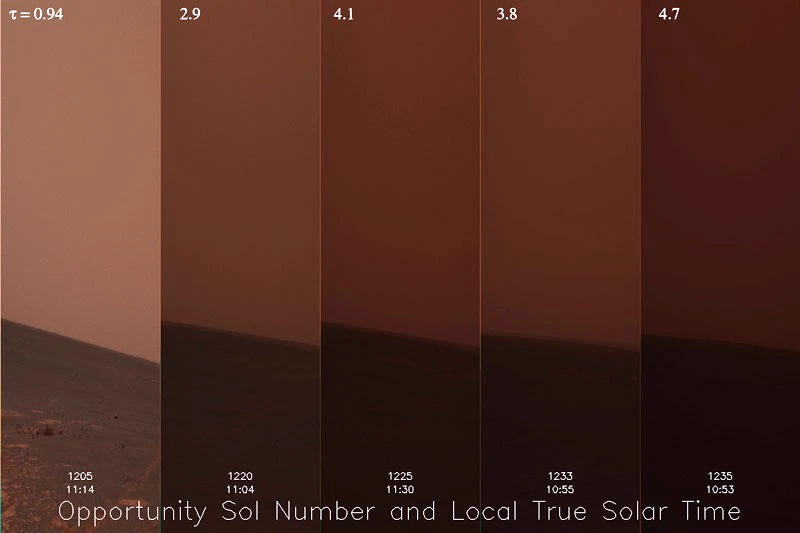
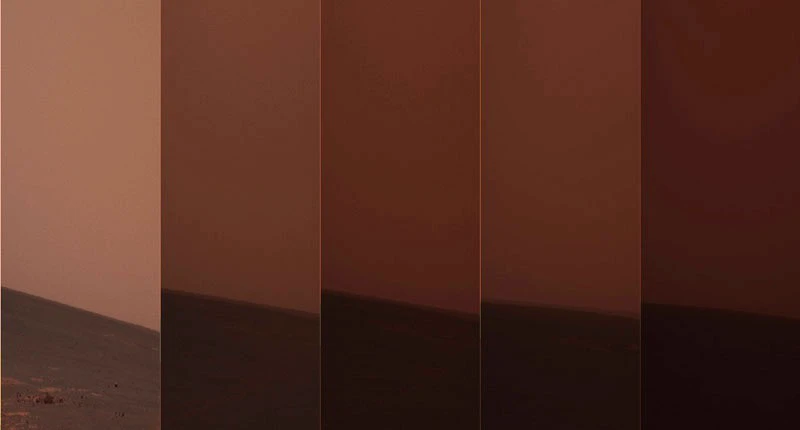
Every photo fills the screen; scenes dissolve instead of cutting
- Berries, the 2007 sky and the dusty/clean self-portraits are full-screen
  backgrounds now (selfies re-exported at 2400 px, sky labels cropped).
- Wider cross-fades between steps, and both scenes keep moving while they cross.
- The backdrop stops exactly where the story ends and sinks into the page's dark
  ground first, so no hard edge scrolls up over the next section.
- Last picture: the edge of the black band is softened.

diff --git a/src/components/story/Backdrop.tsx b/src/components/story/Backdrop.tsx
@@ -12,17 +12,20 @@ export interface Shot {
 
 /** Scenes with the same key share one layer, so a photo used by two steps keeps travelling. */
 export const sceneKey = (s: Scene): string =>
-  s.kind === 'photo' || s.kind === 'framed' ? s.image.id : s.kind === 'compare' ? `${s.before.id}|${s.after.id}` : s.kind
+  s.kind === 'photo' ? s.image.id : s.kind === 'compare' ? `${s.before.id}|${s.after.id}` : s.kind
 
 /** Every picture a list of shots shows, once each (for the credits). */
 export function sceneImages(scenes: Scene[]): SceneImage[] {
   const out = new Map<string, SceneImage>()
   for (const s of scenes) {
-    const imgs = s.kind === 'photo' || s.kind === 'framed' ? [s.image] : s.kind === 'compare' ? [s.before, s.after] : s.kind === 'rover' ? [s.ground] : []
+    const imgs = s.kind === 'photo' ? [s.image] : s.kind === 'compare' ? [s.before, s.after] : s.kind === 'rover' ? [s.ground] : []
     for (const i of imgs) if (!out.has(i.name + i.credit)) out.set(i.name + i.credit, i)
   }
   return [...out.values()]
 }
+
+/** How much of the scroll between two steps the cross-fade takes (0–1). Wide, so scenes dissolve rather than cut. */
+const FADE = 0.6
 
 const clamp01 = (v: number) => Math.min(1, Math.max(0, v))
 const lerp = (a: number, b: number, t: number) => a + (b - a) * t
@@ -82,7 +85,6 @@ export function makeBackdropController(
       img.dataset.bw = String(w * base)
       img.dataset.bh = String(h * base)
     })
-    el.querySelectorAll<HTMLElement>('[data-frame]').forEach((f) => (f.dataset.fw = String(f.clientWidth)))
     memo.clear()
   }
 
@@ -98,47 +100,40 @@ export function makeBackdropController(
   }
 
   /** How far through its own stretch of the story a shot is, 0–1. */
-  const progress = (s: number, f: number) => {
+  // A shot keeps moving all through the cross-fades on either side of it, so nothing ever sits frozen
+  // on screen. Two steps on one photo (`shared`) hand over at the midpoint instead, so the pan is continuous.
+  const progress = (s: number, f: number, shared: boolean) => {
     if (opts.reduced) return 1
     if (s === 0) return clamp01(f / 0.5)
-    if (s === n - 1) return clamp01((f - (s - 0.5)) / 1.5)
-    return clamp01(f - (s - 0.5))
+    const lead = shared ? 0.5 : 0.5 + FADE / 2
+    if (s === n - 1) return clamp01((f - (s - lead)) / (lead + 1))
+    return clamp01((f - (s - lead)) / (2 * lead))
   }
 
-  const draw = (s: number, f: number, id: string) => {
+  const draw = (s: number, f: number, id: string, shared = false) => {
     const layer = layers.get(keys[s])
     const scene = shots[s].scene
     if (!layer) return
-    const u = progress(s, f)
-    if (scene.kind === 'photo') {
-      const img = layer.querySelector<HTMLImageElement>('img[data-cover]')
-      if (!img) return
-      const v = lerpView(scene.from, scene.to, u)
+    const u = progress(s, f, shared)
+    if (scene.kind === 'photo' || scene.kind === 'compare') {
+      // Every photo in the layer travels together (the two halves of a wipe stay lined up).
+      const [from, to] = scene.narrow && isNarrow() ? scene.narrow : [scene.from, scene.to]
+      const v = lerpView(from, to, u)
       const z = v.zoom ?? 1
-      const W = Number(img.dataset.bw) * z
-      const H = Number(img.dataset.bh) * z
-      set(img, 'transform', `translate3d(${(-(W - vw) * v.x).toFixed(1)}px, ${(-(H - vh) * v.y).toFixed(1)}px, 0) scale(${z.toFixed(4)})`, id + 'img')
-    } else if (scene.kind === 'framed') {
-      const frame = layer.querySelector<HTMLElement>('[data-frame]')
-      const img = layer.querySelector<HTMLElement>('img')
-      if (!frame || !img) return
-      const r = scene.reveal === 'none' ? 1 : smooth(u / 0.45)
-      const clip = scene.reveal === 'left' ? `inset(0 ${((1 - r) * 100).toFixed(2)}% 0 0)` : `inset(0 0 ${((1 - r) * 100).toFixed(2)}% 0)`
-      set(frame, 'clipPath', clip, id + 'frame')
-      if (scene.from && scene.to) {
-        const v = lerpView(scene.from, scene.to, u)
-        set(img, 'transformOrigin', `${(v.x * 100).toFixed(1)}% ${(v.y * 100).toFixed(1)}%`, id + 'io')
-        set(img, 'transform', `scale(${(v.zoom ?? 1).toFixed(4)})`, id + 'it')
+      layer.querySelectorAll<HTMLImageElement>('img[data-cover]').forEach((img, i) => {
+        const W = Number(img.dataset.bw) * z
+        const H = Number(img.dataset.bh) * z
+        set(img, 'transform', `translate3d(${(-(W - vw) * v.x).toFixed(1)}px, ${(-(H - vh) * v.y).toFixed(1)}px, 0) scale(${z.toFixed(4)})`, `${id}img${i}`)
+      })
+      if (scene.kind === 'compare') {
+        const after = layer.querySelector<HTMLElement>('[data-after]')
+        const line = layer.querySelector<HTMLElement>('[data-wipe]')
+        if (!after || !line) return
+        const w = opts.reduced ? 1 : smooth((u - 0.15) / 0.6)
+        set(after, 'clipPath', `inset(0 ${((1 - w) * 100).toFixed(2)}% 0 0)`, id + 'after')
+        set(line, 'transform', `translate3d(${(w * vw).toFixed(1)}px, 0, 0)`, id + 'line')
+        set(line, 'opacity', w > 0.01 && w < 0.99 ? '1' : '0', id + 'lineop')
       }
-    } else if (scene.kind === 'compare') {
-      const after = layer.querySelector<HTMLElement>('[data-after]')
-      const line = layer.querySelector<HTMLElement>('[data-wipe]')
-      const frame = layer.querySelector<HTMLElement>('[data-frame]')
-      if (!after || !line || !frame) return
-      const w = opts.reduced ? 1 : smooth((u - 0.2) / 0.55)
-      set(after, 'clipPath', `inset(0 ${((1 - w) * 100).toFixed(2)}% 0 0)`, id + 'after')
-      set(line, 'transform', `translate3d(${(w * Number(frame.dataset.fw)).toFixed(1)}px, 0, 0)`, id + 'line')
-      set(line, 'opacity', w > 0.01 && w < 0.99 ? '1' : '0', id + 'lineop')
     } else if (scene.kind === 'rover') {
       layer.querySelectorAll<HTMLElement>('[data-ground]').forEach((g) =>
         set(g, 'opacity', g.dataset.ground === scene.ground.id ? '1' : '0', `${id}g${g.dataset.ground}`),
@@ -180,11 +175,11 @@ export function makeBackdropController(
     if (d >= 0) {
       a = cur
       b = Math.min(n - 1, cur + 1)
-      t = b === a ? 0 : d > 0.35 ? smooth((d - 0.35) / 0.3) : 0
+      t = b === a ? 0 : smooth((d - (0.5 - FADE / 2)) / FADE)
     } else {
       a = Math.max(0, cur - 1)
       b = cur
-      t = a === b ? 1 : d < -0.35 ? 1 - smooth((-0.35 - d) / 0.3) : 1
+      t = a === b ? 1 : 1 - smooth((-(0.5 - FADE / 2) - d) / FADE)
     }
     if (opts.reduced) t = t < 0.5 ? 0 : 1
 
@@ -198,7 +193,7 @@ export function makeBackdropController(
         set(layer, 'display', '', id)
         set(layer, 'opacity', '1', id)
         set(layer, 'zIndex', '1', id)
-        draw(t < 0.5 ? a : b, f, id)
+        draw(t < 0.5 ? a : b, f, id, true)
       } else if (key === kb && t > 0) {
         set(layer, 'display', '', id)
         set(layer, 'opacity', t.toFixed(3), id)
@@ -250,19 +245,6 @@ function CoverPhoto({ image }: { image: SceneImage }) {
   )
 }
 
-/** A small photo shown sharp: above the words on phones, to the right of them on wide screens. */
-function Frame({ image, children }: { image: SceneImage; children: React.ReactNode }) {
-  return (
-    <div
-      data-frame=""
-      className="absolute left-1/2 top-[11svh] w-[min(calc(100vw-2.5rem),calc(33svh*var(--ar)))] -translate-x-1/2 overflow-hidden rounded-md lg:left-auto lg:right-[6vw] lg:top-1/2 lg:w-[min(44vw,calc(64svh*var(--ar)))] lg:translate-x-0 lg:-translate-y-1/2"
-      style={{ aspectRatio: `${image.wide.w} / ${image.wide.h}`, '--ar': image.wide.w / image.wide.h } as React.CSSProperties}
-    >
-      {children}
-    </div>
-  )
-}
-
 function Layer({ scene, shots, model, modelRef, title, loaded }: {
   scene: Scene
   shots: Shot[]
@@ -279,22 +261,15 @@ function Layer({ scene, shots, model, modelRef, title, loaded }: {
         <CoverPhoto image={scene.image} />
       </div>
     )
-  if (scene.kind === 'framed')
-    return (
-      <div data-layer={key} className={`${base} bg-basalt`} style={{ display: 'none' }}>
-        <Frame image={scene.image}>
-          <img {...lazy(scene.image.wide.src)} alt="" decoding="async" className="block h-full w-full object-cover" />
-        </Frame>
-      </div>
-    )
   if (scene.kind === 'compare')
     return (
-      <div data-layer={key} className={`${base} bg-basalt`} style={{ display: 'none' }}>
-        <Frame image={scene.before}>
-          <img {...lazy(scene.before.wide.src)} alt="" decoding="async" className="absolute inset-0 h-full w-full object-cover" />
-          <img {...lazy(scene.after.wide.src)} data-after="" alt="" decoding="async" className="absolute inset-0 h-full w-full object-cover" />
-          <span data-wipe="" aria-hidden="true" className="absolute inset-y-0 left-0 w-0.5 -translate-x-1/2 bg-sun opacity-0 shadow-[0_0_12px_rgb(0_0_0/0.5)]" />
-        </Frame>
+      <div data-layer={key} className={base} style={{ display: 'none' }}>
+        <CoverPhoto image={scene.before} />
+        {/* The clip is on a full-screen box, so the wipe crosses the screen, not the moving photo */}
+        <div data-after="" className="absolute inset-0 overflow-hidden" style={{ clipPath: 'inset(0 100% 0 0)' }}>
+          <CoverPhoto image={scene.after} />
+        </div>
+        <span data-wipe="" aria-hidden="true" className="absolute inset-y-0 left-0 w-0.5 -translate-x-1/2 bg-sun opacity-0 shadow-[0_0_12px_rgb(0_0_0/0.5)]" />
       </div>
     )
   if (scene.kind === 'black') return <div data-layer={key} className={`${base} bg-black`} style={{ display: 'none' }} />

diff --git a/src/components/StoryScene.tsx b/src/components/StoryScene.tsx
@@ -133,6 +133,17 @@ export default function StoryScene({ chapter }: { chapter: Chapter }) {
         .fromTo(chrome.querySelectorAll('[data-day],[data-topshade]'), { autoAlpha: 0 }, { autoAlpha: 1, duration: 0.25 }, 0.45)
         .fromTo(chrome.querySelectorAll('[data-scrim]'), { opacity: 0 }, { opacity: 1, duration: 0.5 }, 0.3)
 
+      gsap.to(chrome.querySelector('[data-endshade]'), {
+        opacity: 1,
+        ease: 'none',
+        scrollTrigger: { trigger: root, start: 'bottom 125%', end: 'bottom 100%', scrub: true },
+      })
+      gsap.to(chrome.querySelector('[data-counter]'), {
+        opacity: 0,
+        ease: 'none',
+        scrollTrigger: { trigger: root, start: 'bottom 120%', end: 'bottom 100%', scrub: true },
+      })
+
       if (!reduced) {
         blocks.forEach((block) => {
           const heading = block.querySelector<HTMLElement>('[data-heading]')
@@ -221,7 +232,9 @@ export default function StoryScene({ chapter }: { chapter: Chapter }) {
   return (
     <section ref={rootRef} aria-label={`The story of ${chapter.name}`} className="relative">
       {/* The screen behind the words. Sticky, full screen, never above the words. */}
-      <div className="pointer-events-none sticky top-0 z-0 h-0">
+      {/* Full height with a matching negative margin: it lets go exactly where the story ends, instead of
+          hanging over the next section. */}
+      <div className="pointer-events-none sticky top-0 z-0 -mb-[100svh] h-[100svh]">
         <div ref={chromeRef} data-silent="false" className="group/chrome absolute inset-x-0 top-0 h-[100svh]">
           <Backdrop
             shots={shots}
@@ -251,8 +264,10 @@ export default function StoryScene({ chapter }: { chapter: Chapter }) {
             aria-hidden="true"
             className="invisible absolute inset-x-0 top-0 h-28 bg-gradient-to-b from-black/55 to-transparent opacity-0"
           />
+          {/* The end: the picture sinks into the page's own dark, so the next section follows without an edge */}
+          <div data-endshade="" aria-hidden="true" className="absolute inset-0 bg-basalt opacity-0" />
 
-          <div className="absolute left-5 top-5 font-display text-[clamp(0.95rem,4.8vw,1.125rem)] font-bold leading-tight md:left-10 md:text-lg lg:top-8 lg:text-2xl">
+          <div data-counter="" className="absolute left-5 top-5 font-display text-[clamp(0.95rem,4.8vw,1.125rem)] font-bold leading-tight md:left-10 md:text-lg lg:top-8 lg:text-2xl">
             <p data-intro-only="" className="text-ink">
               {chapter.place}
             </p>
@@ -331,7 +346,8 @@ export default function StoryScene({ chapter }: { chapter: Chapter }) {
             </div>
           </article>
         ))}
-        <div aria-hidden="true" className="h-[40svh] lg:h-[20svh]" />
+        {/* Room after the last words, so the rover is seen alone before the picture sinks into the dark */}
+        <div aria-hidden="true" className="h-[70svh] lg:h-[60svh]" />
       </div>
     </section>
   )
@@ -340,7 +356,7 @@ export default function StoryScene({ chapter }: { chapter: Chapter }) {
 /** Screen readers hear what the picture behind the words shows. */
 function SceneDescription({ scene }: { scene: Chapter['steps'][number]['scene'] }) {
   const alt =
-    scene.kind === 'photo' || scene.kind === 'framed'
+    scene.kind === 'photo'
       ? scene.image.alt
       : scene.kind === 'compare'
         ? `${scene.before.alt} Then: ${scene.after.alt}`

diff --git a/src/data/chapters/opportunity.ts b/src/data/chapters/opportunity.ts
@@ -44,21 +44,21 @@ const purgatory: SceneImage = {
 }
 const sky2007: SceneImage = {
   id: 'sky-2007',
-  wide: { src: P + 'sky-2007.webp', w: 800, h: 533 },
+  wide: { src: P + 'sky-2007.webp', w: 800, h: 430 },
   alt: 'Five views of the same horizon from 14 June to 15 July 2007. The sky turns from pale to dark brown as the dust storm thickens.',
   credit: 'NASA/JPL-Caltech/Cornell',
   name: 'The sky darkening, sols 1,205 to 1,235',
 }
 const dusty: SceneImage = {
   id: 'selfie-dusty',
-  wide: { src: P + 'selfie-dusty.webp', w: 1200, h: 1015 },
+  wide: { src: P + 'selfie-dusty.webp', w: 2400, h: 2031 },
   alt: "Opportunity's self-portrait in January 2014, looking down on its solar panels coated in reddish dust.",
   credit: 'NASA/JPL-Caltech/Cornell/ASU (PIA17759)',
   name: 'Dusty self-portrait, January 2014',
 }
 const clean: SceneImage = {
   id: 'selfie-clean',
-  wide: { src: P + 'selfie-clean.webp', w: 1200, h: 1015 },
+  wide: { src: P + 'selfie-clean.webp', w: 2400, h: 2031 },
   alt: "Opportunity's self-portrait in March 2014, after the wind: the solar panels are dark and clean again.",
   credit: 'NASA/JPL-Caltech/Cornell/ASU (PIA18079)',
   name: 'Clean self-portrait, March 2014',
@@ -137,7 +137,14 @@ export const opportunity: Chapter = {
       heading: 'The ground had berries.',
       body: 'Tiny grey balls lay everywhere. They are hematite, a mineral that forms in water. Mars was once wet.',
       storm: 0,
-      scene: { kind: 'framed', image: berries, reveal: 'top', from: { x: 0.5, y: 0.5, zoom: 1 }, to: { x: 0.55, y: 0.4, zoom: 1.2 } },
+      scene: {
+        kind: 'photo',
+        image: berries,
+        // The brushed circle sits right of the words on wide screens, and in the middle on phones.
+        from: { x: 0.1, y: 0.35, zoom: 1.12 },
+        to: { x: 0.22, y: 0.6, zoom: 1.3 },
+        narrow: [{ x: 0.38, y: 0.5, zoom: 1 }, { x: 0.42, y: 0.5, zoom: 1.2 }],
+      },
     },
     {
       spine: 91,
@@ -161,7 +168,7 @@ export const opportunity: Chapter = {
       heading: '2007. The sky went dark.',
       body: 'A dust storm hid the Sun. My power fell to 128 watt‑hours a day, so I stopped driving and waited.',
       storm: 0.8,
-      scene: { kind: 'framed', image: sky2007, reveal: 'left' },
+      scene: { kind: 'photo', image: sky2007, from: { x: 0, y: 0.4, zoom: 1.15 }, to: { x: 1, y: 0.4, zoom: 1.4 } },
     },
     {
       spine: 3611,
@@ -169,7 +176,7 @@ export const opportunity: Chapter = {
       heading: 'The wind cleaned me.',
       body: 'Dust kept settling on my solar panels. In March 2014 the wind blew most of it off, and my power went up.',
       storm: 0,
-      scene: { kind: 'compare', before: dusty, after: clean },
+      scene: { kind: 'compare', before: dusty, after: clean, from: { x: 0.5, y: 0.2, zoom: 1.22 }, to: { x: 0.5, y: 0.5, zoom: 1.3 }, narrow: [{ x: 0.5, y: 0.6, zoom: 1.28 }, { x: 0.5, y: 0.6, zoom: 1.36 }] },
     },
     {
       spine: 3968,

diff --git a/src/data/types.ts b/src/data/types.ts
@@ -53,12 +53,10 @@ export interface Camera {
 export type Scene =
   /** The 3D model standing on a real panorama under a Mars sky. */
   | { kind: 'rover'; ground: SceneImage; from: Camera; to: Camera }
-  /** A photo filling the screen, travelling across it. */
-  | { kind: 'photo'; image: SceneImage; from: View; to: View }
-  /** A small photo shown sharp at its own size on dark ground, opened by the scroll. */
-  | { kind: 'framed'; image: SceneImage; reveal: 'left' | 'top' | 'none'; from?: View; to?: View }
-  /** Two photos of the same view; a wipe moves from `before` to `after` with the scroll. */
-  | { kind: 'compare'; before: SceneImage; after: SceneImage }
+  /** A photo filling the screen, travelling across it. `narrow` replaces from/to under 1024 px. */
+  | { kind: 'photo'; image: SceneImage; from: View; to: View; narrow?: [View, View] }
+  /** Two photos of the same view filling the screen; a wipe crosses it from `before` to `after` with the scroll. */
+  | { kind: 'compare'; before: SceneImage; after: SceneImage; from: View; to: View; narrow?: [View, View] }
   /** Nothing: the signal is gone. */
   | { kind: 'black' }
 

diff --git a/docs/CREDITS.md b/docs/CREDITS.md
@@ -11,8 +11,6 @@ All 3D models come from NASA's 3D Resources (science.nasa.gov). Downloaded 14 No
 
 ## Photographs
 
-| File in `public/photos/` | Title | Credit | Source page | Notes |
-|---|---|---|---|---|
 All downloaded 14 Nov 2026 and converted to WebP with ffmpeg. "Step" is the Opportunity chapter step that shows the photo (0 = title).
 
 | File in `public/photos/` | Title | Credit | Source page | Notes |
@@ -22,12 +20,12 @@ All downloaded 14 Nov 2026 and converted to WebP with ffmpeg. "Step" is the Oppo
 | `berry-bowl.webp` | Discovery Served Up in a Bowl (PIA05634) | NASA/JPL/Cornell | https://science.nasa.gov/photojournal/discovery-served-up-in-a-bowl | Calibration strip at the bottom cropped off. Step 3. |
 | `endurance-horizon.webp` | 'Endurance' Looms on the Horizon (PIA05847) | NASA/JPL/Cornell | https://photojournal.jpl.nasa.gov/catalog/PIA05847 | Taken on sol 93, about 70 m from Endurance crater's rim. Black/white mosaic borders cropped. Step 4 (day 91). |
 | `purgatory-wide.webp`, `purgatory-tall.webp` | Opportunity's 'Rub al Khali' Panorama (PIA07216) | NASA/JPL/Cornell | https://science.nasa.gov/photojournal/opportunitys-rub-al-khali-panorama/ | Taken sols 456–464 at Purgatory Dune; the ruts from being stuck are in the foreground. Two crops around the tracks. Step 5. |
-| `sky-2007.webp` | A Darkened Mars Sky | NASA/JPL-Caltech/Cornell | https://science.nasa.gov/resource/a-darkened-mars-sky/ | Unmodified apart from format. Five frames, sols 1,205–1,235 (14 June to 15 July 2007), labels are NASA's. Step 6. |
-| `selfie-dusty.webp` | Self-Portrait by Opportunity Mars Rover in January 2014 (PIA17759) | NASA/JPL-Caltech/Cornell Univ./Arizona State Univ. | https://science.nasa.gov/photojournal/self-portrait-by-opportunity-mars-rover-in-january-2014 | Cropped and scaled to match the March portrait so the two line up for the wipe. Step 7. |
-| `selfie-clean.webp` | Self-Portrait by Freshly Cleaned Opportunity Mars Rover in March 2014 (PIA18079) | NASA/JPL-Caltech/Cornell Univ./Arizona State Univ. | https://science.nasa.gov/photojournal/self-portrait-by-freshly-cleaned-opportunity-mars-rover-in-march-2014 | As above. Step 7. |
+| `sky-2007.webp` | A Darkened Mars Sky | NASA/JPL-Caltech/Cornell | https://science.nasa.gov/resource/a-darkened-mars-sky/ | Five frames, sols 1,205–1,235 (14 June to 15 July 2007). Label rows above and below the frames cropped off so it can fill the screen. Step 6. |
+| `selfie-dusty.webp` | Self-Portrait by Opportunity Mars Rover in January 2014 (PIA17759) | NASA/JPL-Caltech/Cornell Univ./Arizona State Univ. | https://science.nasa.gov/photojournal/self-portrait-by-opportunity-mars-rover-in-january-2014 | Cropped and scaled (2400 px wide) to match the March portrait so the two line up for the wipe. Step 7. |
+| `selfie-clean.webp` | Self-Portrait by Freshly Cleaned Opportunity Mars Rover in March 2014 (PIA18079) | NASA/JPL-Caltech/Cornell Univ./Arizona State Univ. | https://science.nasa.gov/photojournal/self-portrait-by-freshly-cleaned-opportunity-mars-rover-in-march-2014 | Cropped and scaled to 2400 px wide, as above. Step 7. |
 | `marathon-map.webp` | Opportunity Rover's Full Marathon-Length Traverse (PIA19154) | NASA/JPL-Caltech/MSSS/NMMNHS | https://science.nasa.gov/resource/opportunity-rovers-full-marathon-length-traverse | Scaled to 2600 px wide. Step 8. |
 | `sprained-ankle.webp` | Panorama Above Perseverance Valley ('Sprained Ankle') (PIA21723) | NASA/JPL-Caltech/Cornell/Arizona State Univ. | https://science.nasa.gov/photojournal/panorama-above-perseverance-valley-on-mars/ | Taken sols 4,753–4,765 (June 2017) while engineers diagnosed a front-wheel steering stall. Black lower edge cropped. Step 9. |
-| `last-picture.webp` | Opportunity's Last Message (PIA22929) | NASA/JPL-Caltech/Cornell/ASU | https://science.nasa.gov/photojournal/opportunitys-last-message | Unmodified apart from format. Step 10. |
+| `last-picture.webp` | Opportunity's Last Message (PIA22929) | NASA/JPL-Caltech/Cornell/ASU | https://science.nasa.gov/photojournal/opportunitys-last-message | The last few rows before the black band are faded into it, so the edge reads softly when the picture fills the screen. Step 10. |
 | `perseverance-valley-wide.webp`, `perseverance-valley-narrow.webp` | Opportunity Legacy Pan (True Color) (PIA22909) | NASA/JPL-Caltech/Cornell/ASU | https://science.nasa.gov/photojournal/opportunity-legacy-pan-true-color | Opportunity's last panorama, sols 5,084–5,111. Cropped from the full TIFF to the valley floor. Ground band under the 3D rover, step 12. |
 
 No NASA 3D model was found for Sojourner; its chapter uses a NASA photo with pins.

diff --git a/DESIGN.md b/DESIGN.md
@@ -27,12 +27,12 @@ The Moon chapters will use black sky, bright grey ground and gold foil.
 - A chapter is a page that scrolls. Behind the words is a sticky full-screen backdrop (`src/components/story/Backdrop.tsx`). Each step has one scene:
   - **rover:** the 3D model on a real panorama. Used for the title and the last step only.
   - **photo:** a real NASA photo filling the screen and travelling across it.
-  - **framed:** a small photo shown sharp at its own size.
-  - **compare:** a scroll-driven wipe between two photos.
+  - **compare:** two photos of the same view filling the screen, with a scroll-driven wipe from one to the other.
   - **black.**
-- The next scene fades in over the current one between steps. Scenes that share a photo keep travelling across it.
-- 1024 px and wider: words travel up the left side over a dark scrim. Framed photos sit on the right.
-- Narrower: the backdrop fills the screen and its lower part is darkened. Words are read there, and each part of the words fades out before it passes the middle of the screen. Framed photos sit in the top third. Nothing is ever layered on top of the words.
+- Every photo fills the screen; no framed pictures. The next scene dissolves in over the current one across most of the scroll between two steps, and both keep moving while they cross. Scenes that share a photo keep travelling across it.
+- At the end of the story the picture sinks into the page's dark ground before the next section, so there is never a hard edge.
+- 1024 px and wider: words travel up the left side over a dark scrim.
+- Narrower: the backdrop fills the screen and its lower part is darkened. Words are read there, and each part of the words fades out before it passes the middle of the screen. Nothing is ever layered on top of the words.
 - No fixed chrome except the story counter (e.g. "Day 48 on Mars"). No progress bar, no next button.
 
 ## Motion
@@ -40,7 +40,6 @@ The Moon chapters will use black sky, bright grey ground and gold foil.
 - Everything in a chapter is scrubbed to the scrollbar and runs backwards on the way up:
   - photo pans and zooms;
   - scene cross-fades;
-  - framed-photo reveals;
   - the before/after wipe;
   - the 3D camera;
   - dust;
